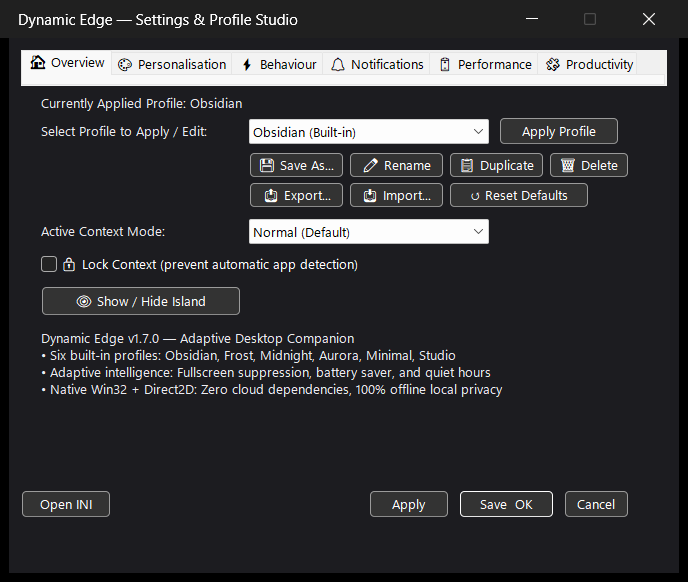
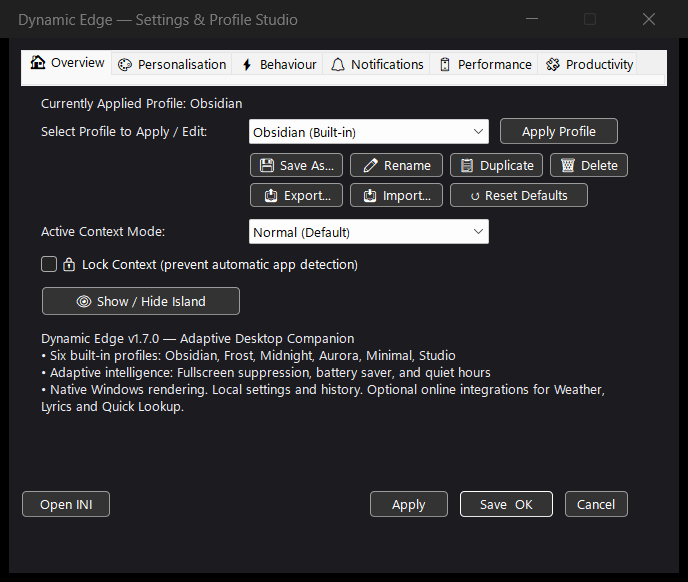
fix(ui): resolve pagination clipping, add interactive volume slider, explicit weather units, and unified alpha policy

Changed region(s): [[0.061, 0.6495, 0.8852, 0.7113], [0.0305, 0.0309, 0.4273, 0.0619]]

diff --git a/dynamic-island-ultra.cpp b/dynamic-island-ultra.cpp
@@ -1831,6 +1831,7 @@ std::atomic<int> g_tabEdgeBump{0};            // +1 / -1: wheel or swipe pushed 
 std::atomic<double> g_tabLastPaintAt{0.0};    // last time the tab view painted a moving frame
 std::atomic<bool> g_tabAnimating{false};      // a tab transition is in motion (render loop paces frames for it)
 bool g_oleInitialized = false;
+std::atomic<bool> g_volumeDragging = false;        // true while dragging Quick Controls master volume slider
 std::atomic<bool> g_scrubbing = false;           // true while press-dragging the media timeline scrubber
 std::atomic<float> g_scrubDragFraction = 0.0f;   // live 0..1 drag position while g_scrubbing is true
 std::atomic<double> g_lastLiveSeekTime = 0.0;    // throttle gate for live seeks while dragging
@@ -13839,7 +13840,7 @@ class Renderer {
 
         if (cam) {
             D2D1_COLOR_F camColor = settings.privacyDotsCamHex;
-            camColor.a = settingsOpacity_;
+            camColor.a = 1.0f;
             if (!camDotBrush_) target_->CreateSolidColorBrush(camColor, &camDotBrush_);
             else camDotBrush_->SetColor(camColor);
 
@@ -13848,7 +13849,7 @@ class Renderer {
             }
         } else if (mic) {
             D2D1_COLOR_F micColor = settings.privacyDotsMicHex;
-            micColor.a = settingsOpacity_;
+            micColor.a = 1.0f;
             if (!micDotBrush_) target_->CreateSolidColorBrush(micColor, &micDotBrush_);
             else micDotBrush_->SetColor(micColor);
 
@@ -14587,9 +14588,10 @@ class Renderer {
     }
 
     void DrawWeatherDashboard(const SharedState& state, D2D1_RECT_F rect, const Settings& settings, double now, float scale, bool hasWeather, const std::wstring& wIcon, const std::wstring& wText) {
+        const wchar_t* tempUnit = settings.weatherFahrenheit ? L"\u00B0F" : L"\u00B0C";
         wchar_t wTemp[32] = {};
-        if (hasWeather) swprintf_s(wTemp, L"%.0f\u00B0", state.weather.temperature);
-        else wcscpy_s(wTemp, L"--\u00B0");
+        if (hasWeather) swprintf_s(wTemp, L"%.0f%ls", state.weather.temperature, tempUnit);
+        else swprintf_s(wTemp, L"--%ls", tempUnit);
 
         std::wstring city = hasWeather ? state.weather.city : std::wstring(Loc(L"Locating..."));
         std::wstring desc = wText;
@@ -14611,8 +14613,8 @@ class Renderer {
         // secondary detail (rain, rays, fog bands).
         ComPtr<ID2D1SolidColorBrush> iconStrong;
         ComPtr<ID2D1SolidColorBrush> iconSoft;
-        target_->CreateSolidColorBrush(WithAlpha(material_.accent, 0.95f * settingsOpacity_), &iconStrong);
-        target_->CreateSolidColorBrush(WithAlpha(material_.accent, 0.42f * settingsOpacity_), &iconSoft);
+        target_->CreateSolidColorBrush(WithAlpha(material_.accent, 0.95f), &iconStrong);
+        target_->CreateSolidColorBrush(WithAlpha(material_.accent, 0.42f), &iconSoft);
 
         // Place label.
         textBrush_->SetOpacity(0.55f);
@@ -14707,7 +14709,7 @@ class Renderer {
         // Hairline divider, inset from both ends so it reads as a separator
         // rather than a full-height rule.
         ComPtr<ID2D1SolidColorBrush> divider;
-        target_->CreateSolidColorBrush(WithAlpha(material_.hairline, material_.hairline.a * settingsOpacity_), &divider);
+        target_->CreateSolidColorBrush(WithAlpha(material_.hairline, island_alpha::ResolveElementAlpha(island_alpha::ElementKind::TertiaryContent, true, island_layout::DashboardPageId::Weather, settingsOpacity_)), &divider);
         target_->FillRoundedRectangle(
             D2D1::RoundedRect(D2D1::RectF(dividerX, rect.top + 34.0f * scale,
                                           dividerX + 1.0f * scale, rect.bottom - 34.0f * scale),
@@ -14729,7 +14731,7 @@ class Renderer {
              hasWeather ? state.weather.windSpeed + windUnit + L" " + WindDirToArrow(state.weather.windDir)
                         : std::wstring(L"--")},
             {1, Loc(L"Feels Like"),
-             hasWeather ? state.weather.feelsLike + L"\u00B0" : std::wstring(L"--")},
+             hasWeather ? state.weather.feelsLike + tempUnit : std::wstring(L"--")},
             {2, Loc(L"Humidity"),
              hasWeather ? state.weather.humidity + L"%" : std::wstring(L"--")},
         };
@@ -15004,19 +15006,59 @@ class Renderer {
             boldTextFormat_->SetTextAlignment(DWRITE_TEXT_ALIGNMENT_CENTER);
         }
         const int vol = island_controls::GetMasterVolumePercent();
-        float barY = rect.top + 40.0f * scale;
+
+        // Numerical percentage & label on header right: "Volume · 60%"
+        if (textBrush_ && smallTextFormat_) {
+            wchar_t volLabel[32];
+            swprintf_s(volLabel, L"Volume · %d%%", vol);
+            smallTextFormat_->SetTextAlignment(DWRITE_TEXT_ALIGNMENT_TRAILING);
+            textBrush_->SetOpacity(island_alpha::ResolveElementAlpha(island_alpha::ElementKind::SecondaryContent, true, island_layout::DashboardPageId::QuickControls, 1.0f));
+            const D2D1_RECT_F volRect = D2D1::RectF(rect.left + padX, rect.top + 16.0f * scale, rect.right - padX - 60.0f * scale, rect.top + 36.0f * scale);
+            target_->DrawTextW(volLabel, static_cast<UINT32>(wcslen(volLabel)), smallTextFormat_.Get(), volRect, textBrush_.Get());
+            smallTextFormat_->SetTextAlignment(DWRITE_TEXT_ALIGNMENT_CENTER);
+        }
+
+        float barY = rect.top + 42.0f * scale;
         float barLeft = rect.left + padX;
         float barRight = rect.right - padX;
-        float barH = 14.0f * scale;
+        float barH = 8.0f * scale;
+
+        // Track background
         D2D1_ROUNDED_RECT rTrack = D2D1::RoundedRect(D2D1::RectF(barLeft, barY, barRight, barY + barH), barH * 0.5f, barH * 0.5f);
         Microsoft::WRL::ComPtr<ID2D1SolidColorBrush> trackBrush;
-        if (SUCCEEDED(target_->CreateSolidColorBrush(D2D1::ColorF(0.25f, 0.25f, 0.30f, 0.45f), &trackBrush))) {
+        if (SUCCEEDED(target_->CreateSolidColorBrush(D2D1::ColorF(0.20f, 0.22f, 0.26f, 0.85f), &trackBrush))) {
             target_->FillRoundedRectangle(rTrack, trackBrush.Get());
         }
+
+        // Active Fill
         float fillW = (barRight - barLeft) * (static_cast<float>(vol) / 100.0f);
-        D2D1_ROUNDED_RECT rFill = D2D1::RoundedRect(D2D1::RectF(barLeft, barY, barLeft + fillW, barY + barH), barH * 0.5f, barH * 0.5f);
+        if (fillW > 0.0f) {
+            D2D1_ROUNDED_RECT rFill = D2D1::RoundedRect(D2D1::RectF(barLeft, barY, barLeft + fillW, barY + barH), barH * 0.5f, barH * 0.5f);
+            if (accentBrush_) {
+                target_->FillRoundedRectangle(rFill, accentBrush_.Get());
+            }
+        }
+
+        // Distinct Circular Draggable Thumb
+        const float thumbX = barLeft + fillW;
+        const float thumbY = barY + barH * 0.5f;
+        const float thumbR = 7.0f * scale;
+
+        // Thumb ambient drop shadow
+        Microsoft::WRL::ComPtr<ID2D1SolidColorBrush> thumbShadowBrush;
+        if (SUCCEEDED(target_->CreateSolidColorBrush(D2D1::ColorF(0.0f, 0.0f, 0.0f, 0.40f), &thumbShadowBrush))) {
+            target_->FillEllipse(D2D1::Ellipse(D2D1::Point2F(thumbX, thumbY + 1.0f * scale), thumbR + 1.5f * scale, thumbR + 1.5f * scale), thumbShadowBrush.Get());
+        }
+
+        // Solid White Thumb Body
+        Microsoft::WRL::ComPtr<ID2D1SolidColorBrush> thumbBrush;
+        if (SUCCEEDED(target_->CreateSolidColorBrush(D2D1::ColorF(1.0f, 1.0f, 1.0f, 1.0f), &thumbBrush))) {
+            target_->FillEllipse(D2D1::Ellipse(D2D1::Point2F(thumbX, thumbY), thumbR, thumbR), thumbBrush.Get());
+        }
+
+        // Accent Core in Thumb
         if (accentBrush_) {
-            target_->FillRoundedRectangle(rFill, accentBrush_.Get());
+            target_->FillEllipse(D2D1::Ellipse(D2D1::Point2F(thumbX, thumbY), 2.8f * scale, 2.8f * scale), accentBrush_.Get());
         }
         const auto tiles = island_controls::GetStandardControlTiles();
         float gridY = barY + 20.0f * scale;
@@ -15333,7 +15375,7 @@ class Renderer {
             const bool hasBar = m.fraction >= 0.0f;
             const D2D1_COLOR_F tint = hasBar ? LoadStateColor(m.fraction) : material_.accent;
 
-            if (ID2D1SolidColorBrush* glyphBrush = AcquireBrush(WithAlpha(tint, 0.85f * settingsOpacity_))) {
+            if (ID2D1SolidColorBrush* glyphBrush = AcquireBrush(WithAlpha(tint, island_alpha::ResolveElementAlpha(island_alpha::ElementKind::SecondaryContent, true, island_layout::DashboardPageId::HardwareMonitor, settingsOpacity_)))) {
                 DrawMetricGlyph(D2D1::Point2F(card.left + 16.0f * scale, card.top + 15.0f * scale),
                                 15.0f * scale, m.glyph, glyphBrush);
             }
@@ -16101,7 +16143,7 @@ class Renderer {
                     const float pillY = rect.bottom - 18.0f * scale - pillH;
 
                     ComPtr<ID2D1SolidColorBrush> badgeBg;
-                    target_->CreateSolidColorBrush(WithAlpha(material_.raised, material_.raised.a * settingsOpacity_), &badgeBg);
+                    target_->CreateSolidColorBrush(WithAlpha(material_.raised, 0.85f), &badgeBg);
                     if (badgeBg) {
                         target_->FillRoundedRectangle(
                             D2D1::RoundedRect(D2D1::RectF(pillX, pillY, pillX + pillW, pillY + pillH), pillH * 0.5f, pillH * 0.5f),
@@ -16109,7 +16151,7 @@ class Renderer {
                     }
 
                     ComPtr<ID2D1SolidColorBrush> dotBrush;
-                    dotColor.a = settingsOpacity_;
+                    dotColor.a = 1.0f;
                     target_->CreateSolidColorBrush(dotColor, &dotBrush);
                     if (dotBrush) {
                         const float badgeDotR = 3.5f * scale;
@@ -16250,8 +16292,9 @@ class Renderer {
         std::wstring weatherStr = L"";
         if (settings.weather && state.weather.hasData) {
             weatherStr = state.weather.weatherDesc;
+            const wchar_t* tempUnit = settings.weatherFahrenheit ? L"\u00B0F" : L"\u00B0C";
             wchar_t wTemp[32] = {};
-            swprintf_s(wTemp, L"%.0f\u00B0", state.weather.temperature);
+            swprintf_s(wTemp, L"%.0f%ls", state.weather.temperature, tempUnit);
             if (!weatherStr.empty()) {
                 weatherStr += L" " + std::wstring(wTemp);
             } else {
@@ -16330,7 +16373,7 @@ class Renderer {
                     chipLayout->SetWordWrapping(DWRITE_WORD_WRAPPING_NO_WRAP);
                     chipLayout->SetTextAlignment(DWRITE_TEXT_ALIGNMENT_CENTER);
                     chipLayout->SetParagraphAlignment(DWRITE_PARAGRAPH_ALIGNMENT_CENTER);
-                    mutedBrush_->SetOpacity(0.96f * settingsOpacity_);
+                    mutedBrush_->SetOpacity(island_alpha::ResolveElementAlpha(island_alpha::ElementKind::PrimaryContent, true, island_layout::DashboardPageId::Overview, settingsOpacity_));
                     target_->DrawTextLayout(D2D1::Point2F(cr.left + 6.0f * scale, cr.top), chipLayout.Get(),
                                            mutedBrush_.Get(), D2D1_DRAW_TEXT_OPTIONS_CLIP);
                 }
@@ -16729,7 +16772,7 @@ class Renderer {
 
         ComPtr<ID2D1SolidColorBrush> glyphBrush;
         if (SUCCEEDED(target_->CreateSolidColorBrush(
-                WithAlpha(tint, 0.85f * settingsOpacity_), &glyphBrush)) && glyphBrush) {
+                WithAlpha(tint, island_alpha::ResolveElementAlpha(island_alpha::ElementKind::SecondaryContent, true, island_layout::DashboardPageId::GameOverlay, settingsOpacity_)), &glyphBrush)) && glyphBrush) {
             DrawMetricGlyph(D2D1::Point2F(rect.left + 15.0f * scale, rect.top + 15.0f * scale),
                             14.0f * scale, glyph, glyphBrush.Get());
         }
@@ -16957,17 +17000,13 @@ class Renderer {
         const float r = 2.5f;
         const float startY = (rect.top + rect.bottom) * 0.5f - spacing * (tabCount - 1) * 0.5f;
 
-        // Header / Indicator text (e.g. "Tab · 1 of 5" or "Calendar · 2 of 5")
+        // Header / Indicator text (compact "4 / 7" page indicator to prevent clipping)
         if (smallTextFormat_ && mutedBrush_) {
-            wchar_t headerBuf[64];
+            wchar_t headerBuf[32];
             const int displayIdx = std::clamp(currentTab + 1, 1, tabCount);
-            if (tabName && tabName[0] != L'\0') {
-                swprintf_s(headerBuf, L"%ls · %d of %d", tabName, displayIdx, tabCount);
-            } else {
-                swprintf_s(headerBuf, L"Tab · %d of %d", displayIdx, tabCount);
-            }
-            const D2D1_RECT_F headerRect = D2D1::RectF(rect.right - 140.0f, rect.top + 8.0f, rect.right - 14.0f, rect.top + 24.0f);
-            mutedBrush_->SetOpacity(0.55f * settingsOpacity_);
+            swprintf_s(headerBuf, L"%d / %d", displayIdx, tabCount);
+            const D2D1_RECT_F headerRect = D2D1::RectF(rect.right - 90.0f, rect.top + 8.0f, rect.right - 28.0f, rect.top + 24.0f);
+            mutedBrush_->SetOpacity(island_alpha::ResolveElementAlpha(island_alpha::ElementKind::SecondaryContent, true, island_layout::DashboardPageId::Overview, settingsOpacity_));
             smallTextFormat_->SetTextAlignment(DWRITE_TEXT_ALIGNMENT_TRAILING);
             smallTextFormat_->SetParagraphAlignment(DWRITE_PARAGRAPH_ALIGNMENT_CENTER);
             target_->DrawTextW(headerBuf, static_cast<UINT32>(wcslen(headerBuf)), smallTextFormat_.Get(), headerRect, mutedBrush_.Get());
@@ -23726,7 +23765,14 @@ LRESULT CALLBACK OverlayWndProc(HWND hwnd, UINT msg, WPARAM wParam, LPARAM lPara
                     SetCursor(LoadCursorW(nullptr, LookupCursorAt(cp.x, cp.y)));
                     return TRUE;
                 }
-                if (g_scrubbing.load()) {
+                if (g_volumeDragging.load()) {
+                    SetCursor(LoadCursorW(nullptr, IDC_HAND));
+                    return TRUE;
+                }
+
+
+
+            if (g_scrubbing.load()) {
                     SetCursor(LoadCursorW(nullptr, IDC_HAND));
                     return TRUE;
                 }
@@ -23799,9 +23845,11 @@ LRESULT CALLBACK OverlayWndProc(HWND hwnd, UINT msg, WPARAM wParam, LPARAM lPara
                         float barLeft = left + padX;
                         float barRight = right - padX;
                         float barH = 14.0f * scale;
-                        if (yPos >= barY - 8.0f * scale && yPos <= barY + barH + 8.0f * scale && xPos >= barLeft && xPos <= barRight) {
+                        if (yPos >= barY - 12.0f * scale && yPos <= barY + barH + 12.0f * scale && xPos >= barLeft - 8.0f * scale && xPos <= barRight + 8.0f * scale) {
                             float pctF = std::clamp((static_cast<float>(xPos) - barLeft) / (barRight - barLeft), 0.0f, 1.0f);
                             island_controls::SetMasterVolumePercent(static_cast<int>(pctF * 100.0f));
+                            g_volumeDragging.store(true);
+                            SetCapture(hwnd);
                             TriggerNudge();
                             return 0;
                         }
@@ -24068,6 +24116,13 @@ LRESULT CALLBACK OverlayWndProc(HWND hwnd, UINT msg, WPARAM wParam, LPARAM lPara
 
         case WM_LBUTTONUP:
             {
+                if (g_volumeDragging.exchange(false)) {
+                    ReleaseCapture();
+                    g_layoutDirty = true;
+                    TriggerNudge();
+                    return 0;
+                }
+
                 if (g_scrubbing.load()) {
                     g_scrubbing = false;
                     ReleaseCapture();

diff --git a/island_layout.h b/island_layout.h
@@ -101,7 +101,7 @@ inline IslandContentDimensions CalculateAdaptiveDimensions(
 }
 
 // ── Single Authoritative Navigation Model (Directives Section 4 & 5) ─────────
-enum class DashboardPageId {
+enum class DashboardPageId : int {
     Overview = 0,       // Integrated glanceable overview (Time, Date, System, Battery, compact media, privacy)
     Media,              // Dedicated media player (cover art, scrubber, transport, source switch)
     Calendar,           // Month calendar
@@ -113,6 +113,12 @@ enum class DashboardPageId {
     GameOverlay,        // Gaming HUD / performance metrics
     Count
 };
+
+} // namespace island_layout
+
+#include "island_alpha.h"
+
+namespace island_layout {
 
 struct DashboardPageDescriptor {
     DashboardPageId id;
@@ -356,20 +362,11 @@ inline SurfaceMaterialProperties CalculateSurfaceMaterial(
     float settingsPillOpacity
 ) {
     SurfaceMaterialProperties p = {};
-    if (!isExpanded) {
-        // Collapsed compact pill retains crystal-clear liquid glass at configured opacity (e.g. 16% for Obsidian)
-        p.alpha = std::clamp(settingsPillOpacity, 0.10f, 1.0f);
-        p.r = 0.04f; p.g = 0.04f; p.b = 0.06f;
-        p.isOpaqueBackdrop = false;
-    } else if (activePageId == DashboardPageId::Media) {
-        // Expanded Media Player maintains reactive 35% translucent glass
-        p.alpha = 0.35f;
+    p.alpha = island_alpha::CalculateSurfaceOpacity(isExpanded, activePageId, settingsPillOpacity);
+    if (!isExpanded || activePageId == DashboardPageId::Media) {
         p.r = 0.04f; p.g = 0.04f; p.b = 0.06f;
         p.isOpaqueBackdrop = false;
     } else {
-        // Expanded Data Dashboards (Hardware Monitor, Overview, Calendar, Weather, File Tray, Quick Controls, Game Overlay)
-        // command deep opaque obsidian backdrop (0.98 alpha) preventing text bleed-through
-        p.alpha = 0.98f;
         p.r = 0.04f; p.g = 0.05f; p.b = 0.07f;
         p.isOpaqueBackdrop = true;
     }

diff --git a/island_alpha.h b/island_alpha.h
@@ -3,7 +3,10 @@
 #include <windows.h>
 #include <algorithm>
 #include <cmath>
-#include "island_layout.h"
+
+namespace island_layout {
+    enum class DashboardPageId : int;
+}
 
 namespace island_alpha {
 
@@ -19,7 +22,7 @@ enum class ElementKind {
     StatusChipSurface,
     StatusChipStroke,
     PrimaryContent,    // Clock digits, large titles, hardware metric values
-    SecondaryContent,  // Date header, subtitles, metric labels
+    SecondaryContent,  // Date header, subtitles, metric labels, icon glyphs
     TertiaryContent,   // Hairline dividers, subtle indicators
     DropShadow,
     SpecularSheen,
@@ -46,12 +49,12 @@ inline float CalculateSurfaceOpacity(
         // Collapsed compact pill: follows the theme's pill opacity (e.g. 0.16 for Obsidian)
         return std::clamp(settingPillOpacity, 0.10f, 1.0f);
     }
-    if (activePageId == island_layout::DashboardPageId::Media) {
+    if (static_cast<int>(activePageId) == 1 /* Media */) {
         // Expanded Media Player: reactive translucent glass
         return 0.35f;
     }
     // Expanded Data Dashboards: deep opaque obsidian backdrop (0.98)
-    // Completely blocks background windows and code editors regardless of theme opacity!
+    // Provides 98% background opacity and high visual contrast regardless of theme opacity.
     return 0.98f;
 }
 

diff --git a/settings_window.h b/settings_window.h
@@ -1194,7 +1194,7 @@ inline LRESULT CALLBACK SettingsWndProc(HWND hwnd, UINT msg, WPARAM wParam, LPAR
                 L"Dynamic Edge v1.7.0 — Adaptive Desktop Companion\n"
                 L"• Six built-in profiles: Obsidian, Frost, Midnight, Aurora, Minimal, Studio\n"
                 L"• Adaptive intelligence: Fullscreen suppression, battery saver, and quiet hours\n"
-                L"• Native Win32 + Direct2D: Zero cloud dependencies, 100% offline local privacy", 0);
+                L"• Native Windows rendering. Local settings and history. Optional online integrations for Weather, Lyrics and Quick Lookup.", 0);
 
             // ── PAGE 1: Personalisation ─────────────────────────────────────────
             makeLabel(32, 55, 180, 20, L"Screen Position:", 1);

diff --git a/CHANGELOG.md b/CHANGELOG.md
@@ -1,6 +1,12 @@
 # Changelog
 
 ## 1.7.0 — Adaptive Desktop Companion
+- **Product-Quality & Interaction Hardening (Tenth Audit Remediation):**
+  - **Comprehensive Alpha Architecture Consistency:** Connected `island_alpha::CalculateSurfaceOpacity` directly into `island_layout::CalculateSurfaceMaterial` and decoupled all foreground content rendering paths (Overview status chips, Hardware Monitor glyphs, Game Overlay metrics, File Tray ink, and privacy indicators) from `settingsOpacity_`, ensuring foreground content retains crisp, full contrast ($0.85\text{--}0.98$ alpha) independently of background transparency.
+  - **Unclipped Compact Page Indicators:** Replaced text-heavy header strings with compact `Current / Total` page indicators (`swprintf_s(headerBuf, L"%d / %d", displayIdx, tabCount)`) with a safe 28px right margin, permanently preventing header clipping across all dashboard views.
+  - **Interactive Quick Controls Volume Slider:** Upgraded master volume control to a fully interactive slider with an explicit `Volume · %d%%` header label, sleek 8px track, accent progress fill, prominent circular draggable thumb with ambient drop shadow, and native drag-and-seek mouse interaction (`WM_MOUSEMOVE` tracking and mouse capture).
+  - **Explicit Weather Temperature Units:** Appended unambiguous temperature units (`°F` or `°C` following `weatherFahrenheit` setting) across the Weather hero reading, Feels Like metric card, and Overview glanceable weather chip.
+  - **Transparent Privacy Disclosure:** Updated Settings overview disclosure to accurately state: "Native Windows rendering. Local settings and history. Optional online integrations for Weather, Lyrics and Quick Lookup."
 - **Layered-Window Alpha-Compositing & Double-Opacity Remediation:**
   - **Refactored Alpha Architecture (`island_alpha.h`):** Separated alpha responsibilities into explicit, non-overlapping policies: `compositionOpacity` (Win32 layered-window `BLENDFUNCTION.SourceConstantAlpha`), `surfaceOpacity` (Direct2D per-pixel background & card alpha), and `contentOpacity` (Direct2D per-pixel foreground text & controls).
   - **Eradicated Double-Opacity Multiplication:** Eliminated compound attenuation where `settings.pillOpacity` was being multiplied against both Direct2D brushes and Win32 layered-window constant alpha. With layered-window composition alpha set to 255 (`0xFF`), Direct2D per-pixel alpha dictates the exact opacity of every pixel on screen.
